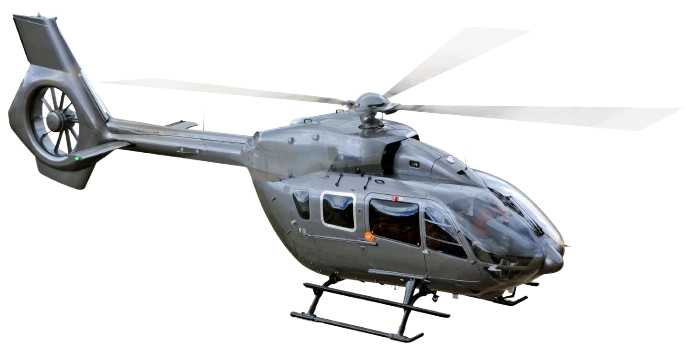
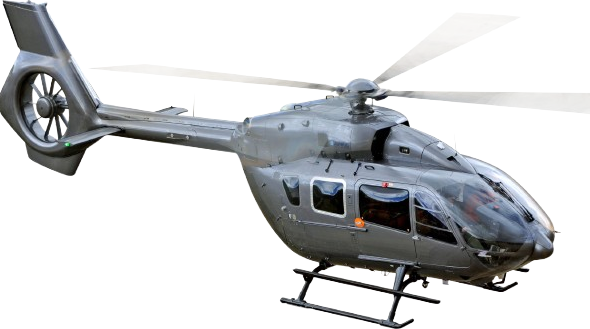
new push

Changed region(s): [[0.0, 0.0, 0.9458, 1.0], [0.9458, 0.2736, 1.0, 0.304], [0.061, 0.4863, 0.0915, 0.5167]]

diff --git a/script.js b/script.js
@@ -53,7 +53,7 @@ function startGame() {
 
   backgroundMusic.play();
   HighScore = localStorage.getItem("flappyHighScore") || 0;
-  score_display.textContent = "score: " + score +" | Best " + HighScore;
+  score_display.textContent = "score: " + score + " | Best " + HighScore;
 
   gameInterval = setInterval(() => {
     // session 2
@@ -63,7 +63,7 @@ function startGame() {
     // session 3
     frame++;
 
-    checkcollision()
+    checkcollision();
 
     // session 3
     // Every 200 frames (~2 seconds), create new pipe
@@ -116,7 +116,6 @@ function movePipes() {
   pipes = pipes.filter((pipe) => pipe.offsetLeft + pipe.offsetWidth > 0);
 }
 
-
 // session 2
 // Start button (optional extra)
 start_btn.addEventListener("click", () => {
@@ -127,39 +126,47 @@ start_btn.addEventListener("click", () => {
 });
 
 function checkcollision() {
-    let birdRect = bird.getBoundingClientRect();
-    for (let pipe of pipes ) {
-        let pipeRect = pipe.getBoundingClientRect();
+  let birdRect = bird.getBoundingClientRect();
 
-        if (
-            birdRect.left < pipeRect.left + pipeRect.width &&
-            birdRect.left + birdRect.width > pipeRect.left &&
-            birdRect.top < pipeRect.top + pipeRect.height &&
-            birdRect.top + birdRect.height > pipeRect.top
-        ) {
-            endGame();
-            return;
-        }
+  let birdPos = {
+    left: birdRect.left - 5,
+    width: birdRect.width - 5,
+    height: birdRect.height - 5,
+    top: birdRect.top - 5,
+  };
+
+  for (let pipe of pipes) {
+    let pipeRect = pipe.getBoundingClientRect();
+
+    if (
+      birdPos.left < pipeRect.left + pipeRect.width &&
+      birdPos.left + birdPos.width > pipeRect.left &&
+      birdPos.top < pipeRect.top + pipeRect.height &&
+      birdPos.top + birdPos.height > pipeRect.top
+    ) {
+      endGame();
+      return;
     }
+  }
 
-if (
+  if (
     bird.offsetTop <= 0 ||
     bird.offsetTop >= game_container.offsetHeight - bird.offsetHeight
-) {
+  ) {
     endGame();
-}
+  }
 
-pipes.forEach((pipe, index) => {
+  pipes.forEach((pipe, index) => {
     if (index % 2 === 0) {
-        if (
-            pipe.offsetLeft + pipe.offsetWidth < bird.offsetLeft &&
-            !pipe.passed
-            ) {
-            pipe.passed = true;
-            setScore(score + 1);
-            }
-        }
-    })
+      if (
+        pipe.offsetLeft + pipe.offsetWidth < bird.offsetLeft &&
+        !pipe.passed
+      ) {
+        pipe.passed = true;
+        setScore(score + 1);
+      }
+    }
+  });
 }
 
 function setScore(newScore) {
@@ -171,25 +178,25 @@ function setScore(newScore) {
 }
 
 function endGame() {
-    clearInterval (gameInterval);
-    gameInterval = null;
-    backgroundMusic.pause();
-    backgroundMusic.currentTime = 0;
-    alert("Game Over Get Better Noob, Your score: " + score);
-    resetGame();
+  clearInterval(gameInterval);
+  gameInterval = null;
+  backgroundMusic.pause();
+  backgroundMusic.currentTime = 0;
+  alert("Game Over Get Better Noob, Your score: " + score);
+  resetGame();
 }
 
-function resetGame () {
-    bird.style.top = "50%";
-    bird_dy = 0;
-    for (let pipe of pipes) {
-        pipe.remove();
-    }
-    pipes = [];
-    setScore(0);
-    frame = 0;
-    game_state = "Start";
-    score_display.textContent = "";
+function resetGame() {
+  bird.style.top = "50%";
+  bird_dy = 0;
+  for (let pipe of pipes) {
+    pipe.remove();
+  }
+  pipes = [];
+  setScore(0);
+  frame = 0;
+  game_state = "Start";
+  score_display.textContent = "";
 }
 
 let pipeSpeed = 3;
@@ -208,7 +215,7 @@ function getDifficultySettings() {
 
 function applyGravity() {
   bird_dy += gravity;
-  let birdTop = bird.offsetTop + bird_dy
+  let birdTop = bird.offsetTop + bird_dy;
 
   birdTop = Math.max(birdTop, 0);
   birdTop = Math.min(birdTop, game_container.offsetHeight - bird.offsetHeight);
@@ -220,7 +227,7 @@ function applyGravity() {
 }
 
 const flapSound = new Audio("sounds/bonus.mp3");
-const scoreSound = new Audio("sounds/bonus.mp3");   
+const scoreSound = new Audio("sounds/bonus.mp3");
 const hitSound = new Audio("sounds/bonus.mp3");
 
 const backgroundMusic = new Audio("sounds/bonus.mp3");
@@ -239,4 +246,3 @@ backgroundMusic.volume = 0.5;
 //     bird_dy = -7;
 //   }
 // });
-

diff --git a/style.css b/style.css
@@ -15,13 +15,13 @@ body {
 }
 
 #bird {
-  width: 160px;
-  height: 80px;
+  width: 159px;
+  height: 70px;
   position: absolute;
   z-index: 1;
   top: 50%;
   left: 40%;
-  background: url("asset/bird.png") no-repeat center center;
+  background: url("asset/helichoppa-removebg-preview.png") no-repeat center center;
   background-size: cover;
 
 

diff --git a/index.html b/index.html
@@ -12,6 +12,7 @@
       <div id="score">Score: 0</div>
     </div>
     <button id="start-btn">Start Game</button>
+    <button id="mute-btn">Mute Music</button>
     <select id="difficulty-select">
       <option value="easy">Easy</option>
       <option value="medium">Medium</option>
